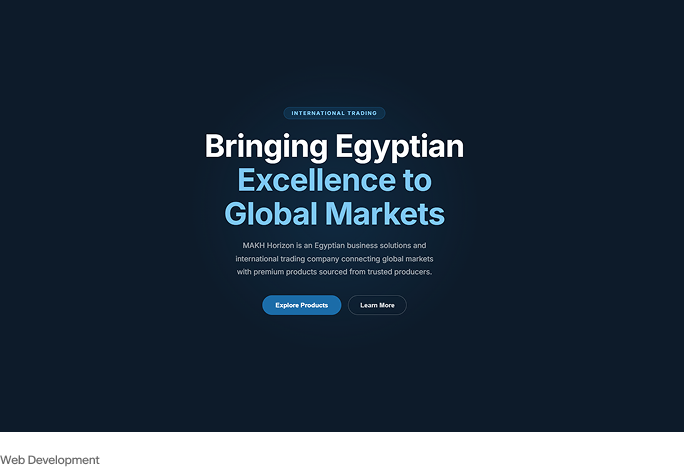
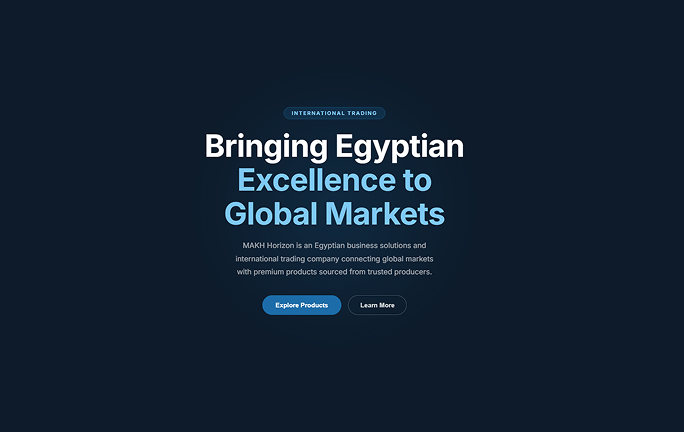
works added

Changed region(s): [[0.2763, 0.2106, 0.6754, 0.7523], [0.0, 0.9028, 1.0, 1.0]]

diff --git a/DeployPage/src/components/Work.jsx b/DeployPage/src/components/Work.jsx
@@ -3,23 +3,24 @@ import styles from "./work.module.css";
 const projects = [
   {
     id: 1,
-    image: "assets/axis.png", 
+    image: "assets/axis.png",
     title: "AXIS® - Real Estate Consultancy",
     service: "Brand Development",
     location: "EGYPT",
   },
   {
     id: 2,
-    image: "/images/fusion-form.jpg",
+    image: "assets/FF.png",
     title: "Fusion Form® - Architecture Development",
     service: "UI/UX Design & Web Development",
     location: "EGYPT",
+    link: "https://www.fusionformad.com",
   },
   {
     id: 3,
-    image: "/images/studio-juzenas.jpg",
+    image: "assets/shawmi.png",
     title: "STUDIO JUZĖNAS - Architecture Studio",
-    service: "Brand Development | UI/UX Design & Web Development",
+    service: "Brand Development | UI/UX Design ",
     location: "VILNIUS, LITHUANIA",
   },
   {
@@ -28,6 +29,7 @@ const projects = [
     title: "AMK",
     service: "Web Development",
     location: "EGYPT",
+    link: "https://amk-sol.com/",
   },
 ];
 
@@ -35,18 +37,23 @@ function Work() {
   return (
     <div className={styles.campaignTextContainer}>
       <p className={styles.campaignTextMain}>
-        NORQUE STUDIOS is a firm that was born in Cairo in 2026, we
-        develop brands & websites to the whole world. We are proudly
-        launching a DONE-BY-HUMANS Campaign because we still
-        believe in human creativity.
+        NORQUE STUDIOS is a firm that was born in Cairo in 2026, we develop
+        brands & websites to the whole world. We are proudly launching a
+        DONE-BY-HUMANS Campaign because we still believe in human creativity.
       </p>
-      <span className={styles.campaignTextSub}>
-        BUILT FOR THE WHOLE WORLD
-      </span>
-      <h2 className={styles.h2}>SELECTED WORKS <span>(04)</span></h2>
+      <span className={styles.campaignTextSub}>BUILT FOR THE WHOLE WORLD</span>
+      <h2 className={styles.h2}>
+        SELECTED WORKS <span>(04)</span>
+      </h2>
       <div className={styles.workGrid}>
         {projects.map((project) => (
           <div key={project.id} className={styles.workItem}>
+            <a
+              key={project.id}
+              href={project.link}
+              target="_blank"
+              rel="noopener noreferrer"
+            >
             <img
               src={project.image}
               alt={project.title}
@@ -57,6 +64,7 @@ function Work() {
               <p className={styles.workService}>{project.service}</p>
               <p className={styles.workLocation}>{project.location}</p>
             </div>
+          </a>
           </div>
         ))}
       </div>

diff --git a/DeployPage/src/components/work.module.css b/DeployPage/src/components/work.module.css
@@ -29,11 +29,20 @@
   grid-template-columns: repeat(12, 1fr);
   gap: 2rem;
 }
+.workItem {
+  width: 100%;
+  grid-column: span 6; 
+}
 
+.workImage {
+  width: 100%;
+  height: auto;
+  object-fit: cover;
+  display: block;
+}
 
 
 .campaignTextMain {
-  /* Fluid sizing that scales smoothly between mobile and desktop */
   font-size: clamp(1.25rem, 2vw, 1.875rem); 
   font-weight: 500;
   line-height: 1.4;
